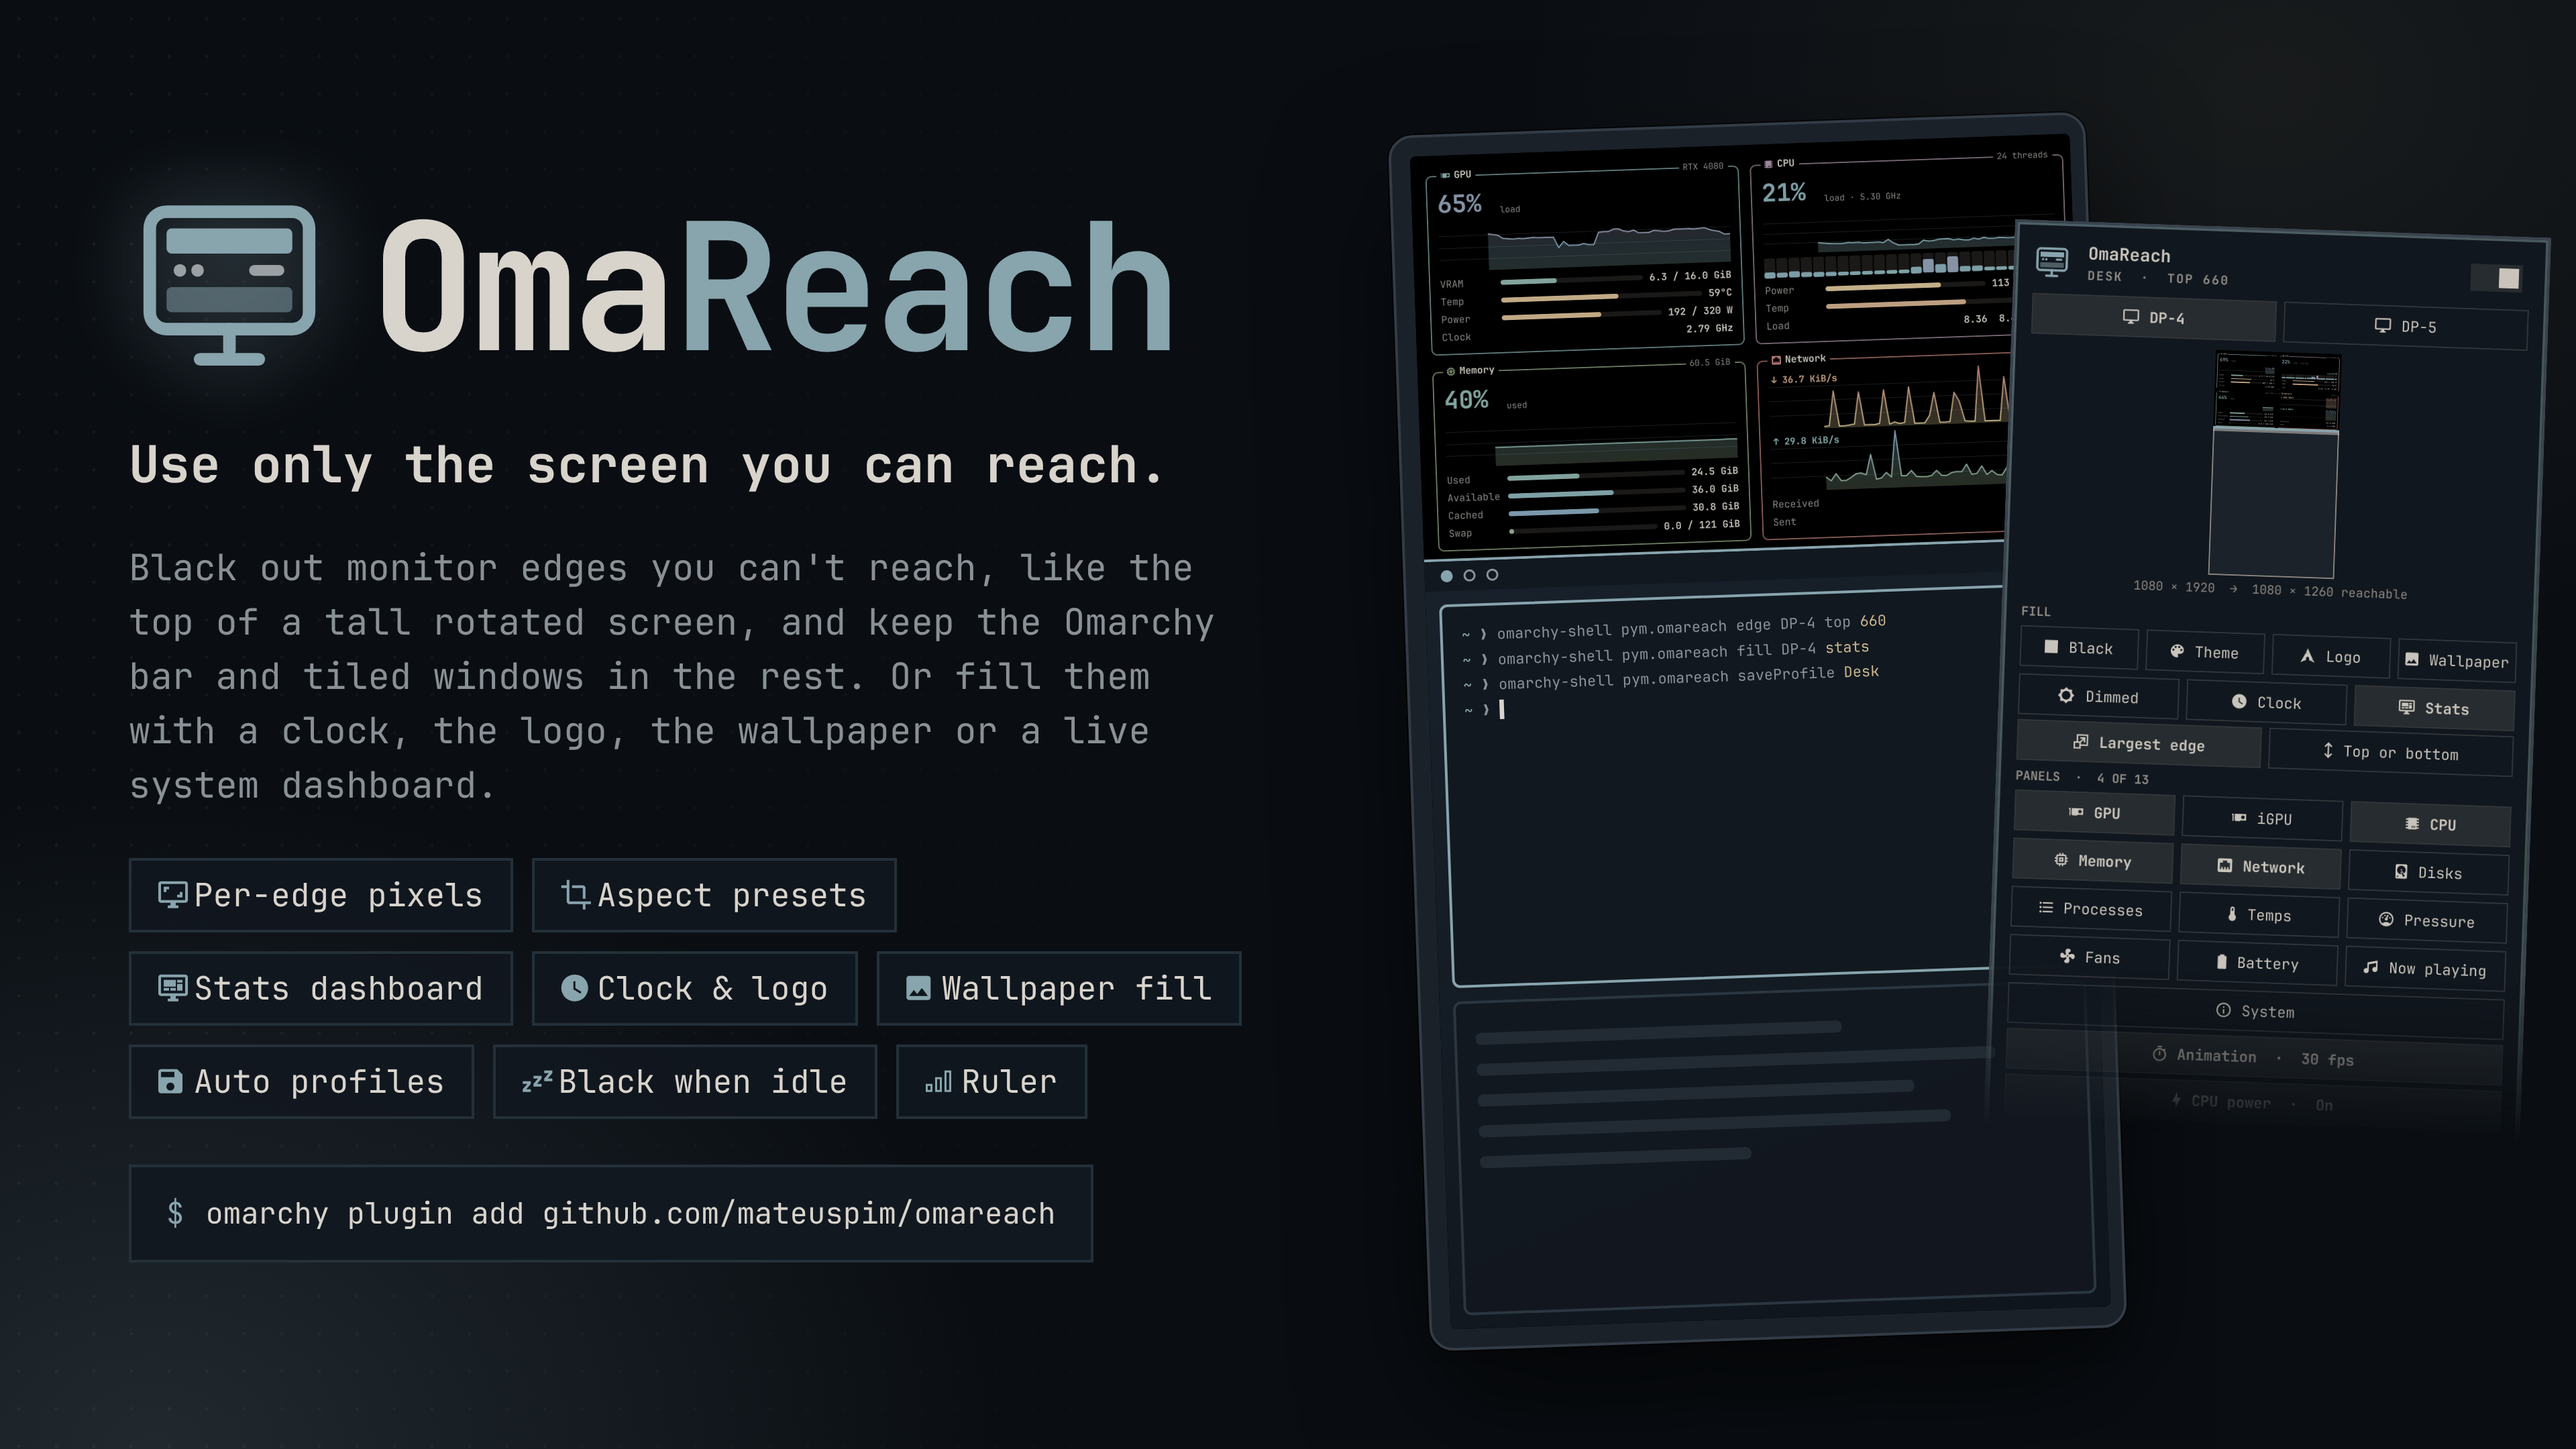
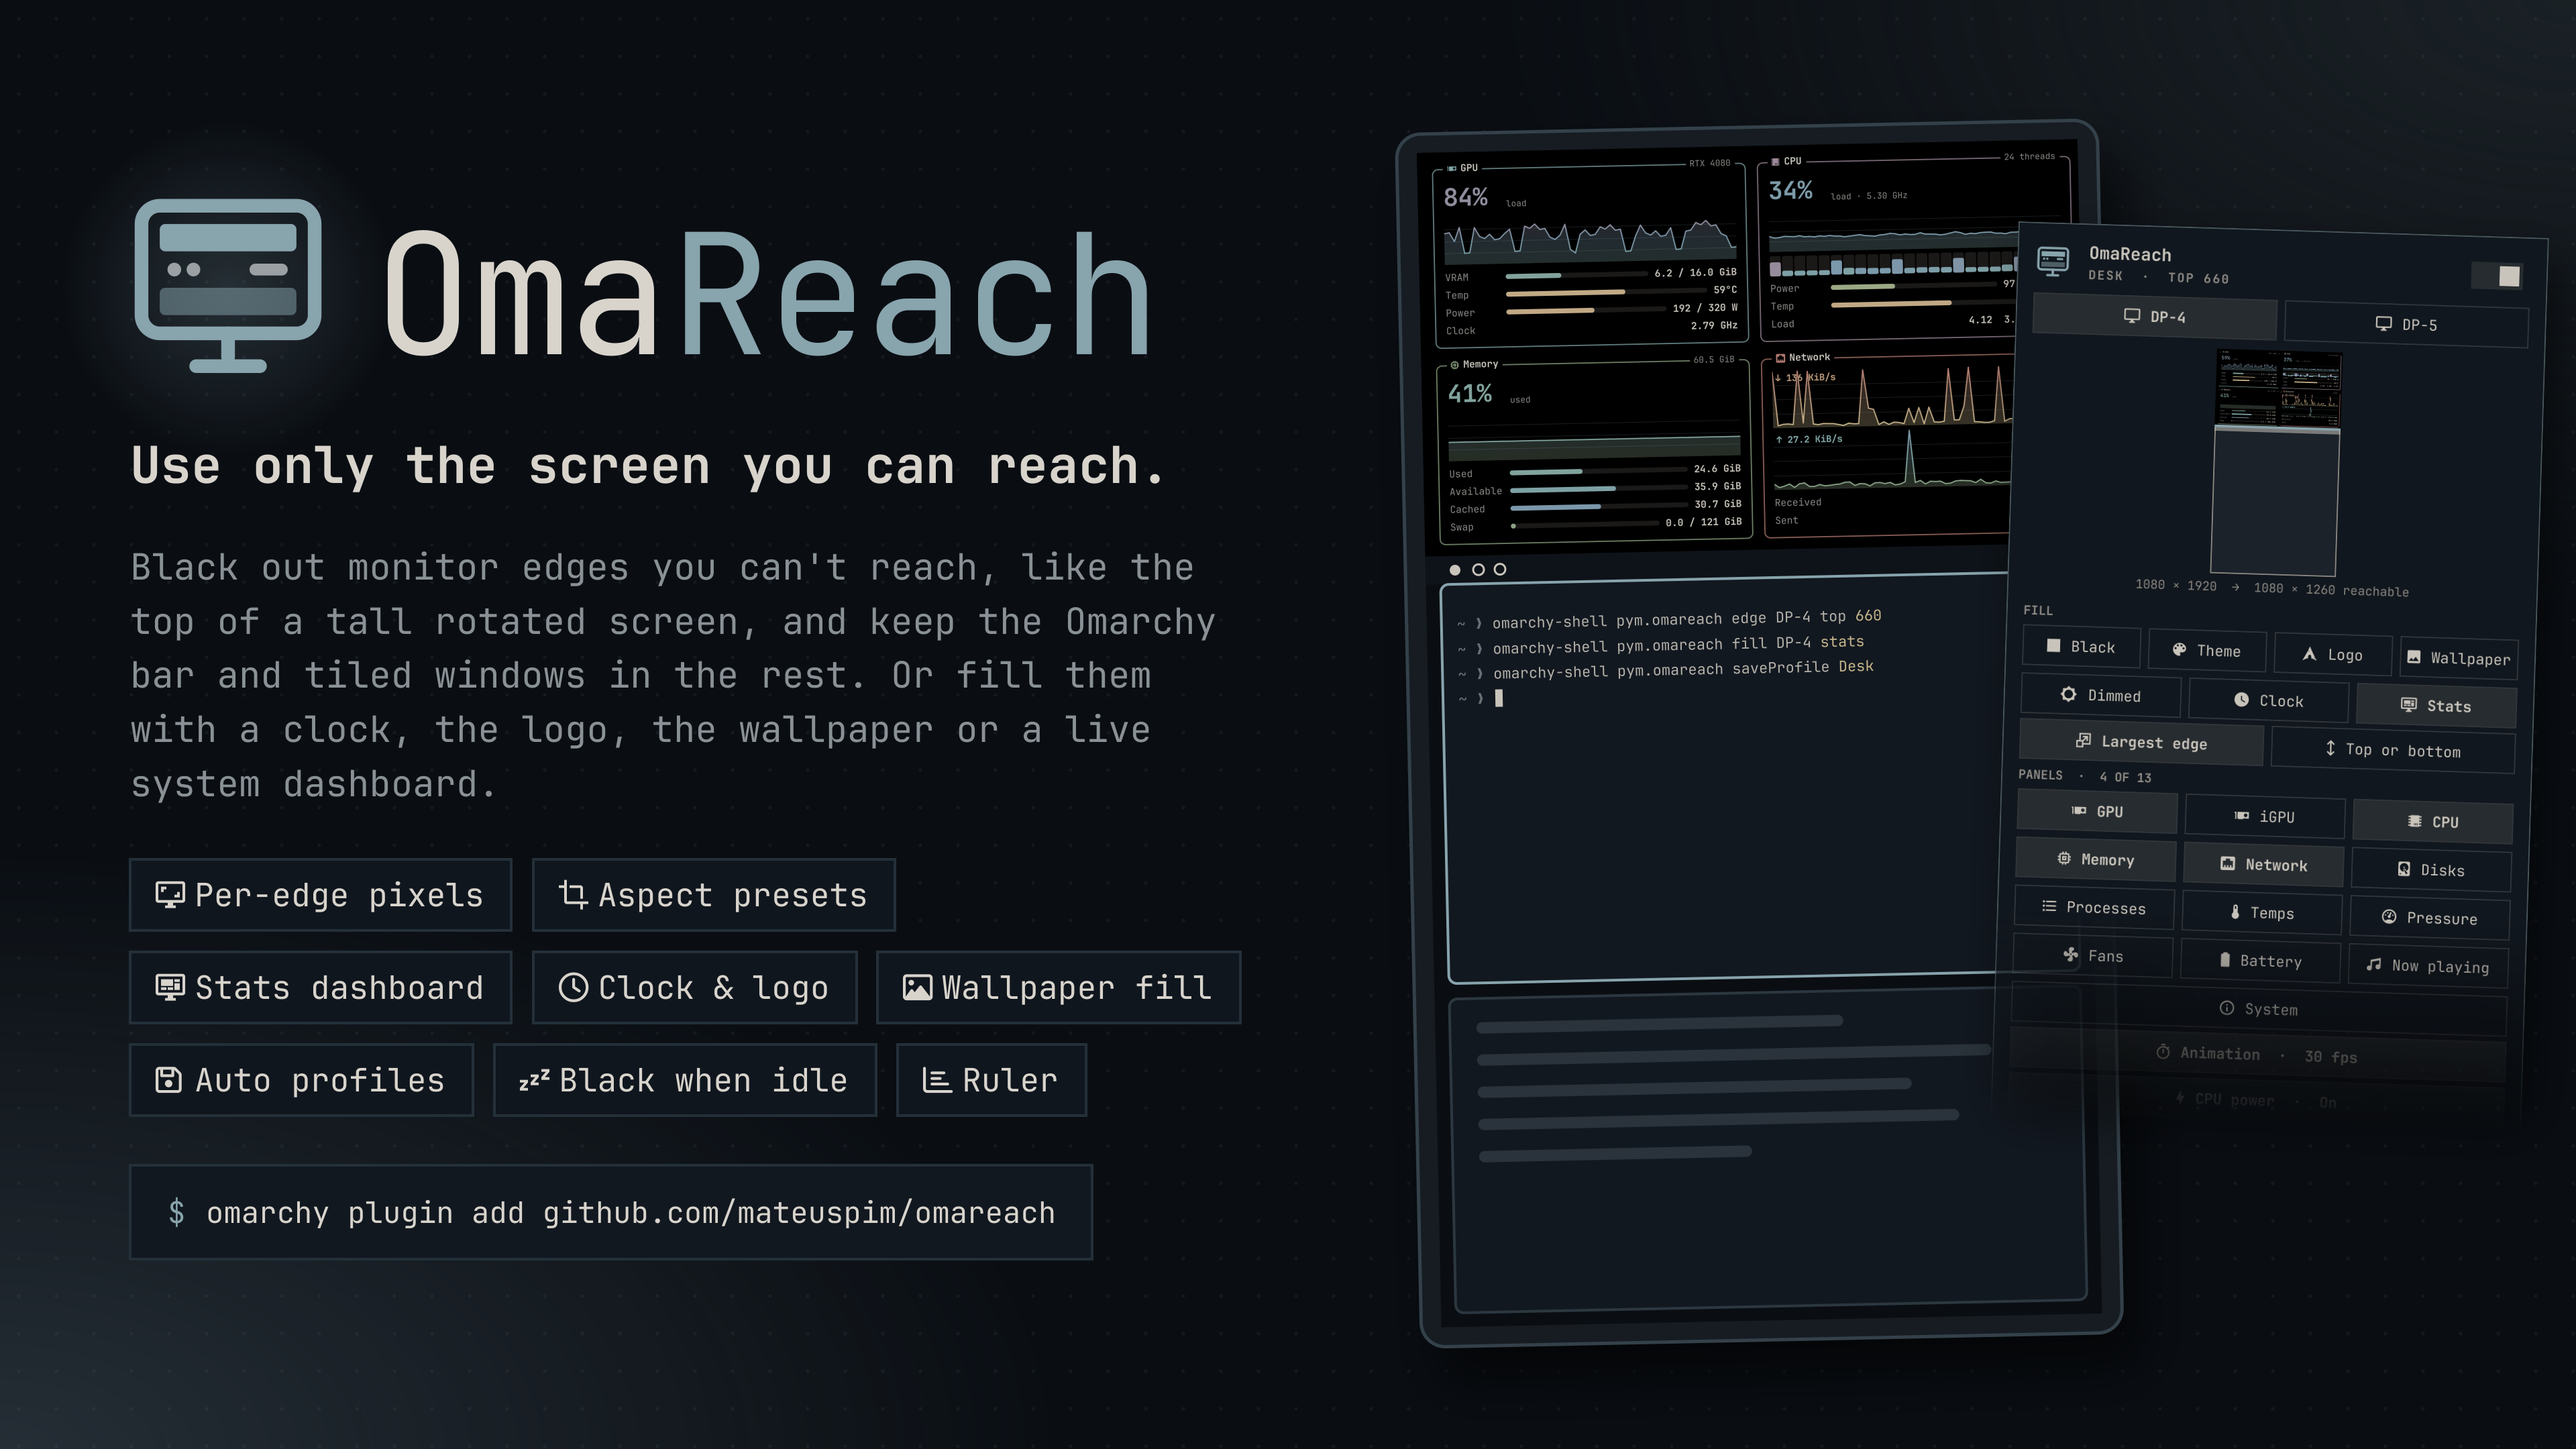
Add brand sources and render the hero from an editable SVG
The README hero existed only as a PNG, so any change to the layout, the
tagline or the UI meant redrawing it by hand. docs/brand/preview.svg now
rebuilds the same composition from two offscreen captures made with
made-up data (the stats fill and the panel), and preview.png is rendered
from it. The render matches the old hero's layout and colours, with
crisper terminal text and fresh captures, so it replaces it.

Add dark and light wordmarks and docs/branding.md with the colours
sampled from the shipped hero and icon: the accent is #88a4ad.

diff --git a/docs/branding.md b/docs/branding.md
@@ -1,0 +1,66 @@
+# OmaReach brand assets
+
+The mark is a monitor with its top and bottom edges reserved and the bar
+in the reachable band between them: two solid strips (the lower one at
+half opacity), two workspace dots and a short line for the bar's
+modules, on a stand. At 32 px the frame, the two strips and the stand
+stay readable; at 16 px it reduces to a framed screen with a bright top
+strip. It is drawn as vector paths on a 24-unit grid, so the bar widget
+(`ReserveIcon.qml`) can redraw it in the bar's own colours.
+
+## Colours
+
+Sampled from the shipped `preview.png` and `icon.svg`. The hero was made
+in the Tsukiyo theme, and its values match that theme's palette.
+
+| Use | Value | Theme name |
+| --- | --- | --- |
+| Accent: mark, "Reach", `$` prompt, terminal border | `#88a4ad` | `accent` |
+| Mark's dots and bar line | `#9aa0a3` | |
+| "Oma", tagline, chip and install text | `#d8d4cc` | `bright_foreground` |
+| Subline | `#8a9196` | |
+| Hero background | `#0a0e13` | `darker_background` |
+| Chip fill | `#10161e` | |
+| Install box and terminal fill | `#121820` | `background` |
+| Chip and box outline | `#243039` | `selection` |
+| Light logo: mark and "Reach" | `#4f6b75` | |
+| Light logo: "Oma" | `#121820` | |
+| Light logo: mark's dots and bar line | `#6a7175` | `dark_foreground` |
+
+The accent is a calm slate blue; keep it for the mark and the "Reach"
+half of the wordmark. In the bar and the panel the icon takes the bar's
+and theme's colours instead of these.
+
+## Assets
+
+| Asset | Use |
+| --- | --- |
+| [`icon.svg`](../icon.svg) | Square app icon, README heading, marketplace. |
+| [`logo.svg`](brand/logo.svg) | Horizontal wordmark on a dark surface. |
+| [`logo-light.svg`](brand/logo-light.svg) | Horizontal wordmark on a light surface. |
+| [`preview.svg`](brand/preview.svg) | Editable README hero layout. |
+| [`captures/`](brand/captures/) | Offscreen renders the hero places: the stats fill and the panel, with made-up data. |
+| [`preview.png`](../preview.png) | Rendered README hero at 3840 × 2160, also the marketplace image. |
+| [`panel.png`](panel.png), [`stats.png`](stats.png) | Smaller README images: the panel and the stats fill. |
+
+The logo SVGs and the preview inline the mark so they render standalone;
+keep their paths in sync with `icon.svg` when changing it. Wordmarks and
+hero text use live SVG text in JetBrainsMono Nerd Font (Omarchy's default
+font), and the hero's chip icons are that font's glyphs, so the result
+changes where the font is missing.
+
+The current `preview.png` is rendered from `preview.svg`. It replaced an
+earlier hero of the same layout whose source was not kept; the new one
+matches it closely, without the earlier slight perspective on the two
+UI renders.
+
+## Rules
+
+- Write the name **OmaReach**: one word, capital O and R. The plugin id
+  stays `pym.omareach`.
+- Keep clear space around the mark of at least a quarter of its height.
+- Captures come from the offscreen harness with made-up data: never a
+  desktop screenshot, a real host name, serial, path or address.
+
+The [development runbook](runbooks/development.md#refresh-the-preview)
+explains how to re-render the hero from fresh captures.
